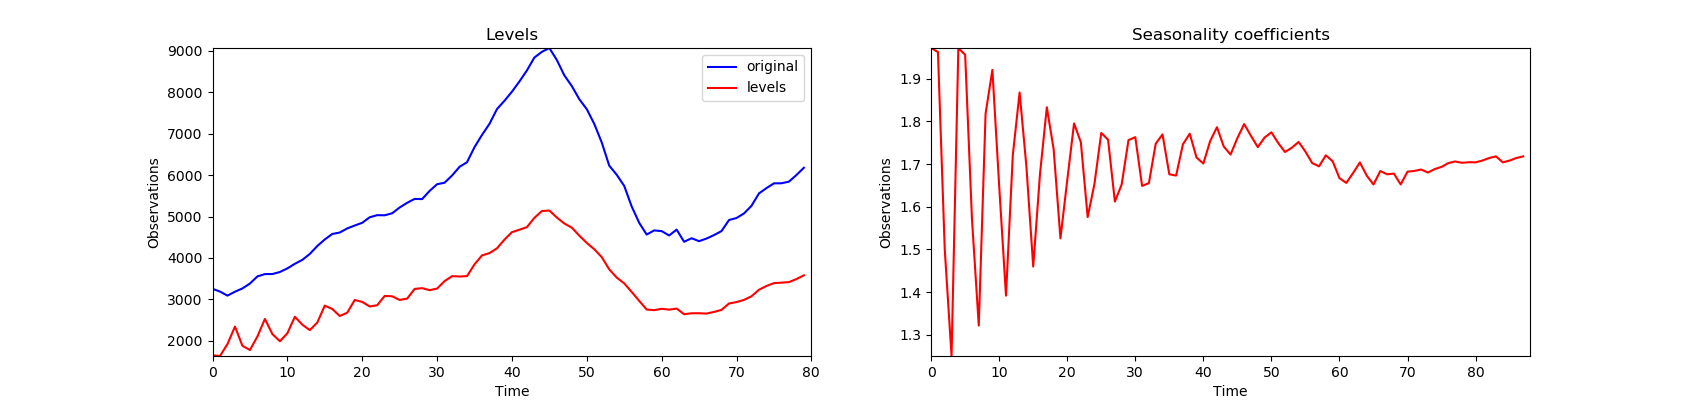
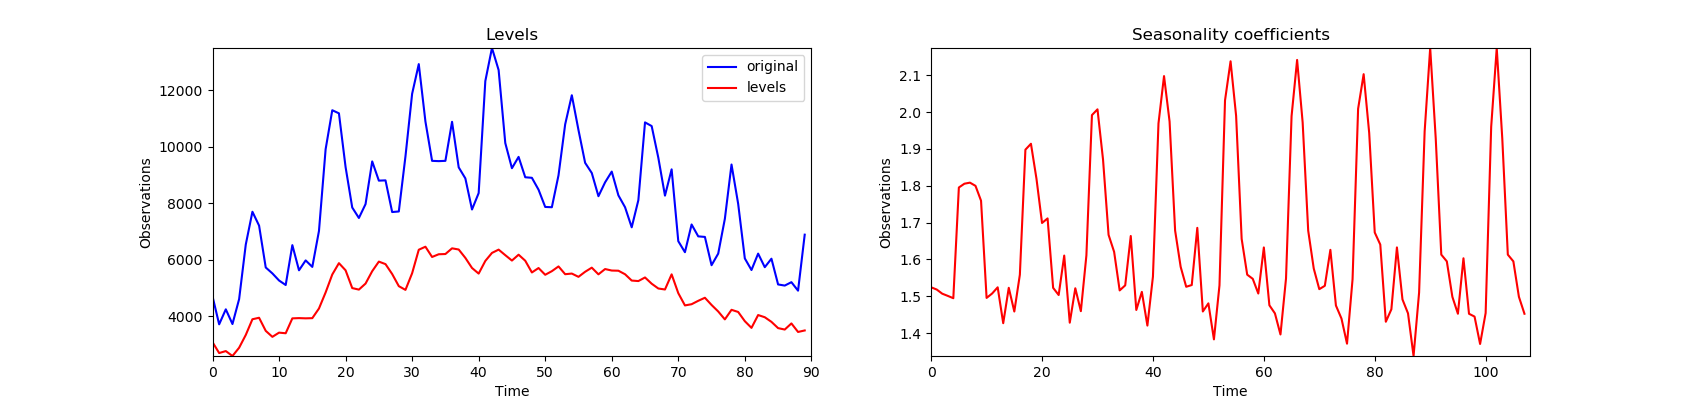
Added esrnn M1 fig.

diff --git a/ts/n_beats/main.py b/ts/n_beats/main.py
@@ -26,7 +26,7 @@ def main():
     FIGURE_PATH = Path("figures-temp/" + MODEL_TYPE.NBEATS.value)
 
     print("Loading config")
-    config = get_config("Quarterly")
+    config = get_config("Monthly")
     print("Frequency:{}".format(config["variable"]))
     forecast_length = config["output_size"]
     backcast_length = 1 * forecast_length

diff --git a/ts/es_rnn/main.py b/ts/es_rnn/main.py
@@ -30,7 +30,7 @@ LOG_DIR = Path("logs/" + MODEL_TYPE.ESRNN.value)
 FIGURE_PATH = Path("figures-temp/" + MODEL_TYPE.ESRNN.value)
 
 print("loading config")
-config = get_config("Quarterly")
+config = get_config("Monthly")
 print("Frequency:{}".format(config["variable"]))
 
 print("loading data")
